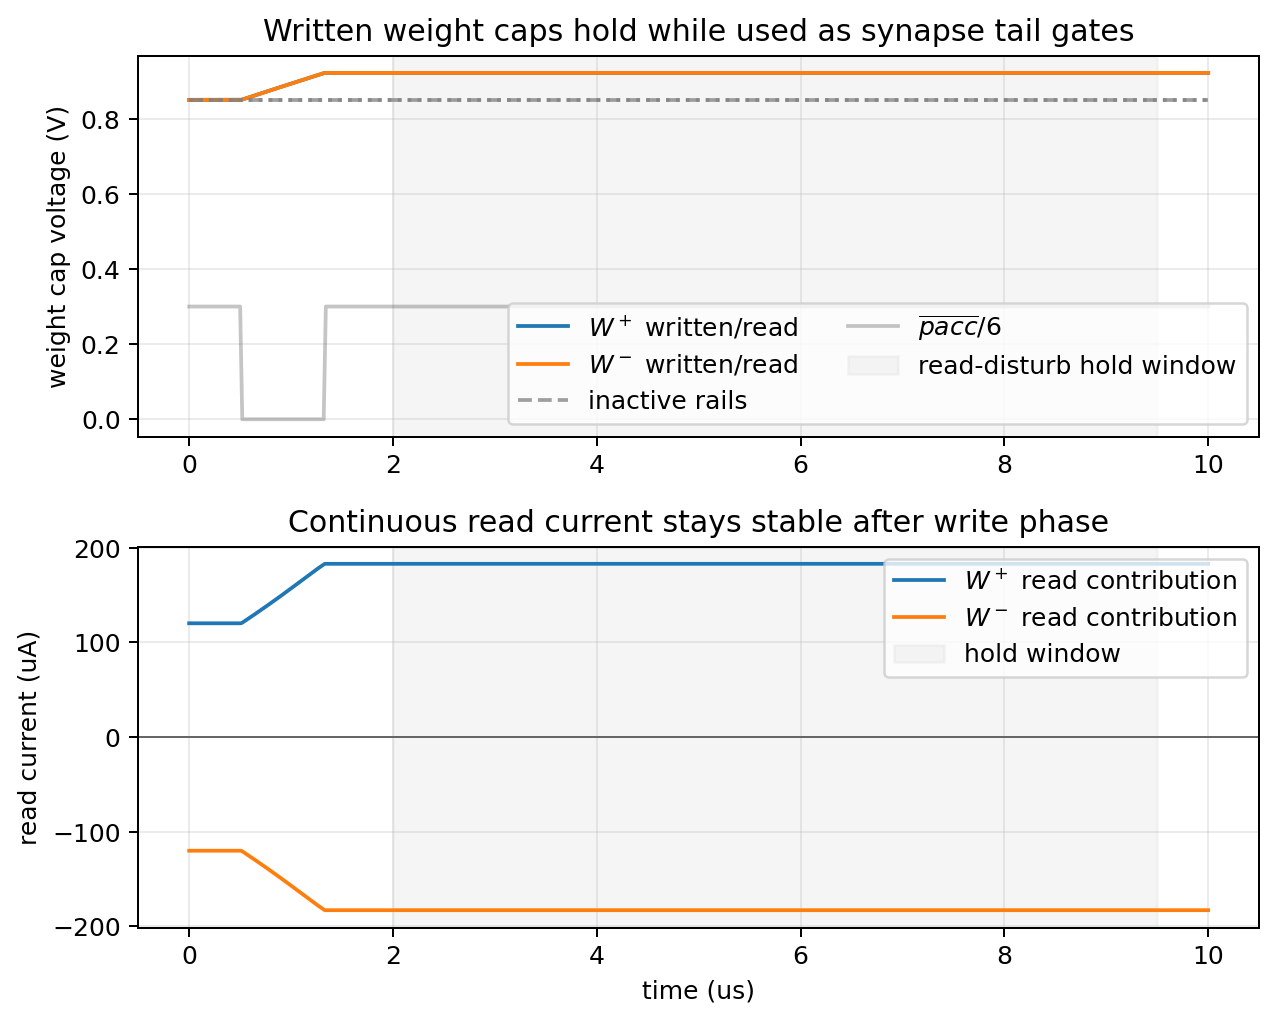
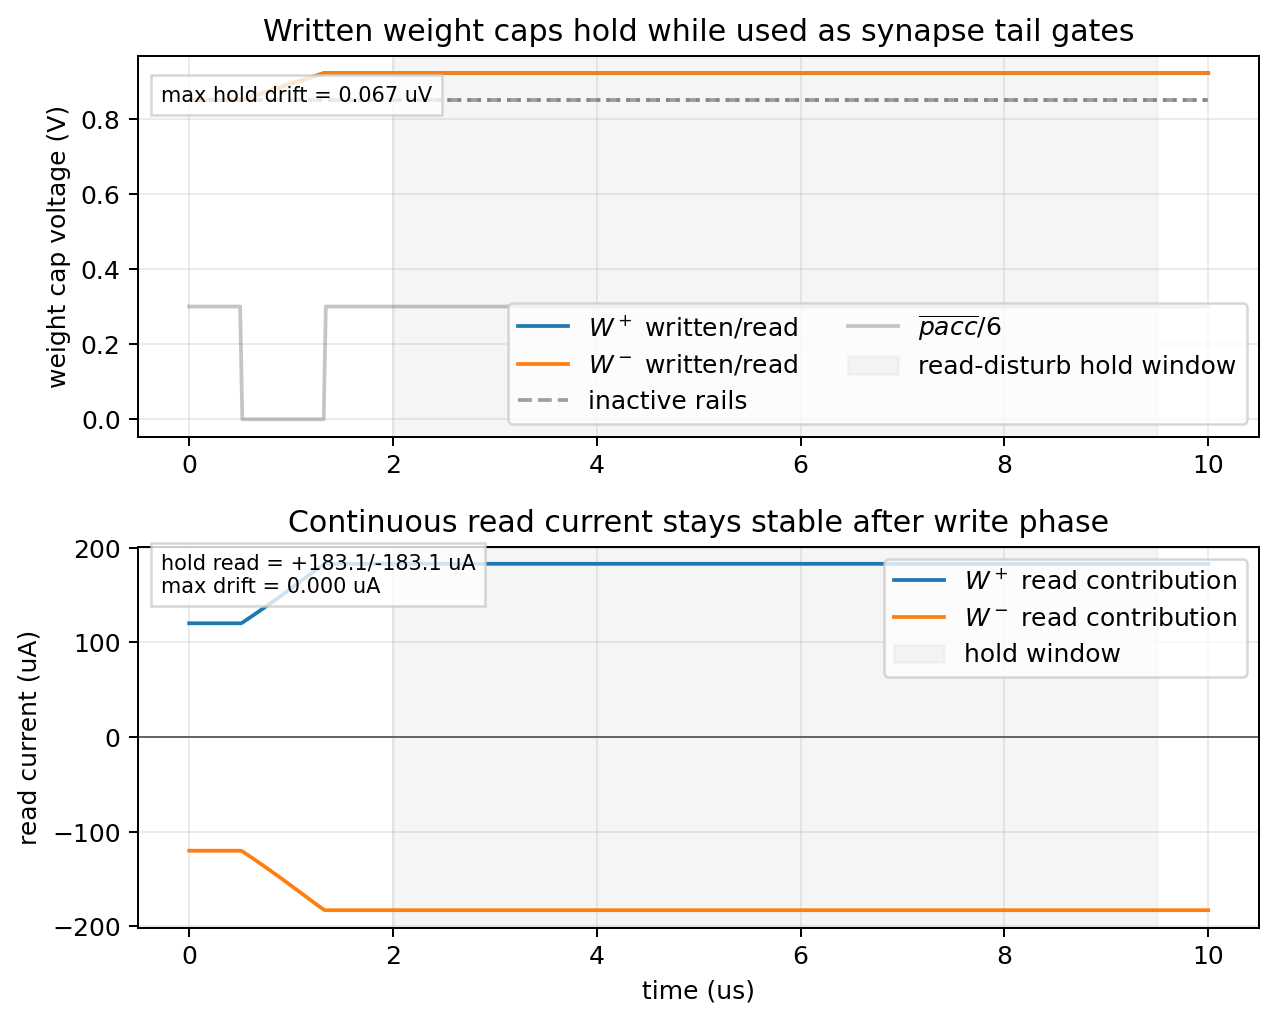
Annotate writer retention drift

Changed region(s): [[0.1222, 0.5162, 0.397, 0.6072], [0.1222, 0.0607, 0.3665, 0.1214]]

diff --git a/spice/run_mos_cell_characterization.py b/spice/run_mos_cell_characterization.py
@@ -16757,10 +16757,14 @@ quit
     require(abs(hold_at(hold_start, retention_cols[4]) - 0.85) < 1e-3, "retention inactive W+ rail should stay quiet")
     wp_hold_drift = abs(hold_at(hold_end, retention_cols[0]) - hold_at(hold_start, retention_cols[0]))
     wm_hold_drift = abs(hold_at(hold_end, retention_cols[5]) - hold_at(hold_start, retention_cols[5]))
+    max_cap_hold_drift = max(wp_hold_drift, wm_hold_drift)
     require(wp_hold_drift < 1e-5, "continuous synapse read should not disturb stored W+ gate voltage")
     require(wm_hold_drift < 1e-5, "continuous synapse read should not disturb stored W- gate voltage")
     pos_hold_drift = abs(hold_at(hold_end, hold_pos_contrib) - hold_at(hold_start, hold_pos_contrib))
     neg_hold_drift = abs(hold_at(hold_end, hold_neg_contrib) - hold_at(hold_start, hold_neg_contrib))
+    max_read_hold_drift = max(pos_hold_drift, neg_hold_drift)
+    pos_hold_read = hold_at(hold_start, hold_pos_contrib)
+    neg_hold_read = hold_at(hold_start, hold_neg_contrib)
     require(pos_hold_drift < 0.5e-6, "positive read contribution should remain stable during hold")
     require(neg_hold_drift < 0.5e-6, "negative read contribution should remain stable during hold")
 
@@ -16946,6 +16950,14 @@ quit
     retention_axes[0].axvspan(2.0, 9.5, color="0.8", alpha=0.18, label="read-disturb hold window")
     retention_axes[0].set_ylabel("weight cap voltage (V)")
     retention_axes[0].set_title("Written weight caps hold while used as synapse tail gates")
+    retention_axes[0].text(
+        0.02,
+        0.88,
+        f"max hold drift = {1e6 * max_cap_hold_drift:.3f} uV",
+        transform=retention_axes[0].transAxes,
+        fontsize="small",
+        bbox={"facecolor": "white", "alpha": 0.8, "edgecolor": "0.8"},
+    )
     retention_axes[0].grid(True, alpha=0.25)
     retention_axes[0].legend(loc="lower right", ncol=2)
     retention_axes[1].plot(1e6 * ht, 1e6 * hold_pos_contrib, label="$W^+$ read contribution")
@@ -16955,6 +16967,15 @@ quit
     retention_axes[1].set_xlabel("time (us)")
     retention_axes[1].set_ylabel("read current (uA)")
     retention_axes[1].set_title("Continuous read current stays stable after write phase")
+    retention_axes[1].text(
+        0.02,
+        0.88,
+        f"hold read = {1e6 * pos_hold_read:+.1f}/{1e6 * neg_hold_read:+.1f} uA\n"
+        f"max drift = {1e6 * max_read_hold_drift:.3f} uA",
+        transform=retention_axes[1].transAxes,
+        fontsize="small",
+        bbox={"facecolor": "white", "alpha": 0.8, "edgecolor": "0.8"},
+    )
     retention_axes[1].grid(True, alpha=0.25)
     retention_axes[1].legend(loc="upper right")
     retention_fig.tight_layout()

diff --git a/engineering_log.md b/engineering_log.md
@@ -2,6 +2,13 @@
 
 ## 2026-05-25
 
+- Tightened the writer-retention plot after the circuit assertions were doing
+  more work than the figure.  The MOS writer/readback deck still uses the same
+  physical \(W^+\)/\(W^-\) capacitors as continuous synapse tail gates after
+  the write pulse, but `mos_writer_retention_ngspice` now annotates the
+  measured hold evidence directly: maximum stored-cap drift is \(0.067\,\mu\)V
+  and the held read currents are \(+183.1/-183.1\,\mu\)A with drift below the
+  displayed \(0.001\,\mu\)A resolution over the read-disturb window.
 - Re-ran the complete `spice/run_mos_cell_characterization.py` ngspice suite
   from source; all current MOS component assertions passed and the tracked
   figures regenerated reproducibly.  While auditing the basic component
